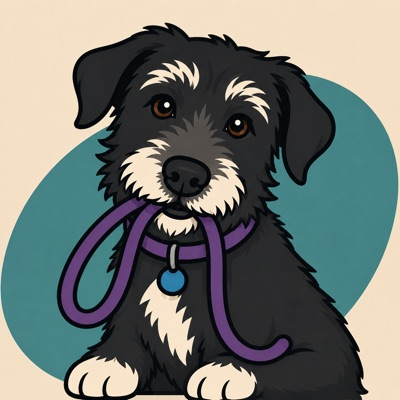
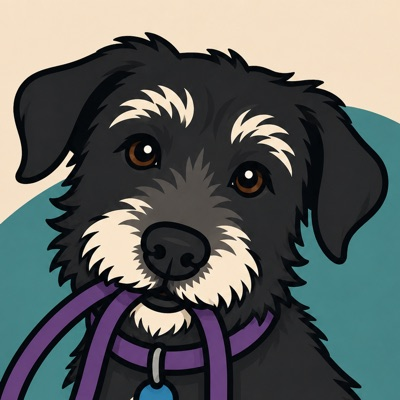
Crop Lucy's profile picture to her head
The whole icon in a 76px circle left her face about a third of the width,
which is a logo rather than a portrait. Now an 880-square head crop.

The numbers are measured rather than guessed: in the 1254-square icon her
head spans x 228-1048 and y 71-620, with the collar narrowing at y 610. An
880 square at x 198 centres her face and keeps both ear tips, and y 0 takes
all 71 pixels of headroom that exist above the ear. A 740 crop was tried and
clipped an ear.

Framed in the file rather than with object-position, because the box is a
circle and object-position cannot know that the corners get clipped.

The command is recorded in img/README.md and checked: running it reproduces
the shipped bytes exactly. Not a generator - one crop re-cut twice does not
earn one - but not folklore either.

diff --git a/css/app.css b/css/app.css
@@ -2177,10 +2177,12 @@ details.disclosure .disclosure-body {
   border-radius: 50%;
   /* `cover` still earns its place as a guard — it keeps any future portrait
      filling the circle instead of squashing — but it does nothing to the
-     current one. The portrait is the app icon, square, in a square box, so
-     there is nothing to crop. The `object-position: 30% 40%` that used to sit
-     here was aimed at the off-centre artwork this replaced; left in place it
-     would have looked deliberate while meaning nothing. */
+     current one. The portrait is a square crop of the app icon in a square
+     box, so there is nothing left to crop; the framing was done in the file
+     (see img/README.md) rather than here, because a circle clips the corners
+     and object-position cannot know that. The `object-position: 30% 40%` that
+     used to sit here was aimed at the off-centre artwork this replaced; left
+     in place it would have looked deliberate while meaning nothing. */
   object-fit: cover;
   flex: none;
   background: var(--surface-sunken);

diff --git a/js/version.js b/js/version.js
@@ -10,7 +10,7 @@
  * The 1.12 lineage continues the old hand-bumped cache names, which reached
  * lucy-learns-v11 before this file existed.
  */
-export const APP_VERSION = '1.67.0';
+export const APP_VERSION = '1.68.0';
 
 /**
  * The day this build went out, shown under the version on the splash.

diff --git a/img/README.md b/img/README.md
@@ -38,7 +38,7 @@ are all level-3 images and sort together.
 | File | What it is |
 | --- | --- |
 | `door-cover.jpg` | the program cover, used by the welcome panel |
-| `lucy-portrait.jpg` | Lucy's photo on her own tab (`js/config.js`) |
+| `lucy-portrait.jpg` | Lucy's picture on her own tab (`js/config.js`) — a head crop of the app icon, see below |
 | `splash-mark.jpg` | the splash artwork; iOS launch images are baked from it |
 | `lucy-run.png` | the 8-frame sprite that runs the splash out |
 | `icon-*.png`, `apple-*.png` | generated — see `scripts/make-icons.mjs` |
@@ -52,6 +52,19 @@ Change the source in `art/` and re-run:
     node scripts/make-runner.mjs     lucy-run.png, from art/pilot/approved/lucy-run-sheet.png
     node scripts/make-icons.mjs      the icon set
     node scripts/make-splash.mjs     the iOS launch images, from art/source/splash-source.png
+
+`lucy-portrait.jpg` is also derived, but by hand rather than by a script — it
+is one crop that has been re-cut twice, which is not enough to earn a
+generator. It is a head crop of the icon:
+
+    sips icons/source.png --cropToHeightWidth 880 880 --cropOffset 0 198 --out /tmp/lp.png
+    sips -Z 400 -s format jpeg -s formatOptions 82 /tmp/lp.png --out img/lucy-portrait.jpg
+
+The numbers are measured, not guessed. In the 1254² icon her head spans
+x 228–1048 and y 71–620, with the collar narrowing at y≈610. An 880 square at
+x 198 centres her face horizontally and keeps both ear tips; y 0 takes all 71
+available pixels of headroom, which is the most there is. Anything tighter
+clips an ear — a 740 crop was tried and did. Re-measure if the icon changes.
 
 ## Adding an image
 
